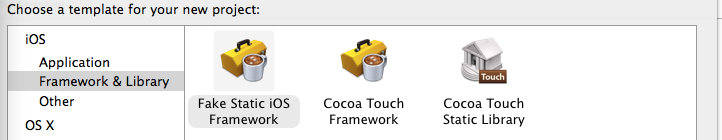
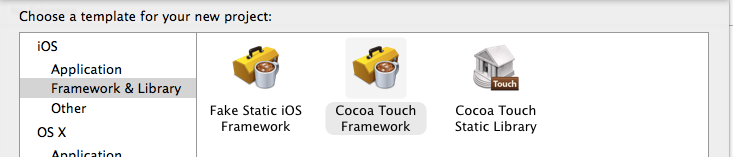
更新README, 如何生成一个Framework

diff --git a/README.md b/README.md
@@ -4,17 +4,27 @@
 
 1. 下载模板 `git clone git@github.com:kstenerud/iOS-Universal-Framework.git`
 
-2. 安装模板 （直接运行目录**Fake Framework**下的`install.sh`）
+2. 安装模板 （直接运行目录**Real Framework**下的`install.sh`）
 
 3. 重启Xcode
 
-4. 新建项目时，在**Framework & Library**中可如果看到**Fake Static iOS Framework**就说明已经安装成功了。
+4. 新建项目时，在**Framework & Library**中可如果看到**Cocoa Touch Framework**就说明已经安装成功了。
 
 ![选择项目模板界面](resource/choose_project_tmp.png)
 
 传送门: [模板官网](https://github.com/kstenerud/iOS-Universal-Framework) 
 
 ## 开始创建Framework
+
+1. 选择**Cocoa Touch Framework**，创建一个项目工程
+*  往工程项目中添加类文件，配置Framework头文件
+*  修改Framework支持的最低版本 （默认为Xcode支持的最高版本）
+*  打开**Build Phases**，展开**Headers**，将**Project**中的头文件拖入**Public**
+*  运行`Command + B`
+*  编译完成，打开Product，右击Framework文件选择**Show In Finder**，就可以找到生成的Framework文件
+
+## 如何将Framework嵌入项目
+
 
 
 ## Contact
